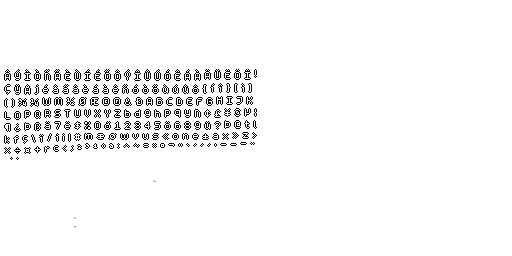
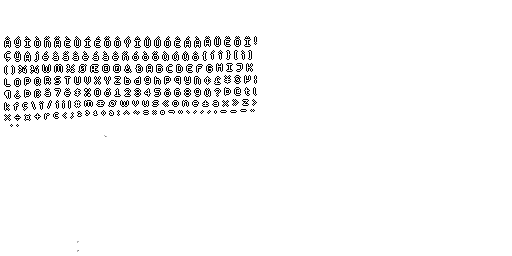
refactor game base to support low res 64x64 resolution games by default

Changed region(s): [[0.0, 0.125, 0.5, 0.625]]

diff --git a/game/src/commonMain/kotlin/com/lehaine/game/scene/GameScene.kt b/game/src/commonMain/kotlin/com/lehaine/game/scene/GameScene.kt
@@ -10,10 +10,13 @@ import com.lehaine.littlekt.graph.node.component.HAlign
 import com.lehaine.littlekt.graph.node.component.VAlign
 import com.lehaine.littlekt.graph.node.node
 import com.lehaine.littlekt.graph.node.ui.Control
+import com.lehaine.littlekt.graph.node.ui.centerContainer
 import com.lehaine.littlekt.graph.node.ui.control
 import com.lehaine.littlekt.graph.node.ui.label
+import com.lehaine.littlekt.graph.node.viewport
 import com.lehaine.littlekt.input.Key
 import com.lehaine.littlekt.util.viewport.ExtendViewport
+import com.lehaine.littlekt.util.viewport.FitViewport
 import com.lehaine.rune.engine.RuneScene
 import com.lehaine.rune.engine.node.EntityCamera2D
 import com.lehaine.rune.engine.node.entityCamera2D
@@ -43,6 +46,9 @@ class GameScene(context: Context) :
             val entityCamera: EntityCamera2D
 
             val fbo = pixelSmoothFrameBuffer {
+                maxWidth = Config.VIRTUAL_WIDTH
+                maxHeight = Config.VIRTUAL_HEIGHT
+                targetHeight = Config.VIRTUAL_HEIGHT
                 entityCamera = entityCamera2D {
                     // TODO set viewbounds
                     camera = canvasCamera
@@ -97,25 +103,31 @@ class GameScene(context: Context) :
                     scaledDistY = entityCamera.scaledDistY
                 }
             }
-
         }
 
-        ui = control {
-            name = "UI"
-            anchorRight = 1f
-            anchorBottom = 1f
-
-            label {
-                text = "TODO: Implement game logic"
-                font = Assets.pixelFont
+        viewport {
+            viewport = FitViewport(Config.VIRTUAL_WIDTH, Config.VIRTUAL_HEIGHT).apply {
+                apply(this@GameScene.context, true)
+            }
+            ui = control {
+                name = "UI"
                 anchorRight = 1f
                 anchorBottom = 1f
-                verticalAlign = VAlign.CENTER
-                horizontalAlign = HAlign.CENTER
+
+                centerContainer {
+                    anchorRight = 1f
+                    anchorBottom = 1f
+                    label {
+                        text = "TODO:\nCreate Game"
+                        font = Assets.pixelFont
+                        horizontalAlign = HAlign.CENTER
+                    }
+                }
             }
         }
         fx.createParticleBatchNodes()
     }
+
     override fun update(dt: Duration) {
         fx.update(dt)
         super.update(dt)
@@ -126,11 +138,11 @@ class GameScene(context: Context) :
             resize(graphics.width, graphics.height)
         }
 
-        if(input.isKeyJustPressed(Key.T)) {
+        if (input.isKeyJustPressed(Key.T)) {
             println(root.treeString())
         }
 
-        if(input.isKeyJustPressed(Key.P)) {
+        if (input.isKeyJustPressed(Key.P)) {
             println(stats)
         }
     }

diff --git a/game/src/commonMain/kotlin/com/lehaine/game/scene/MenuScene.kt b/game/src/commonMain/kotlin/com/lehaine/game/scene/MenuScene.kt
@@ -5,48 +5,40 @@ import com.lehaine.game.Config
 import com.lehaine.littlekt.Context
 import com.lehaine.littlekt.graph.node.Node
 import com.lehaine.littlekt.graph.node.component.HAlign
-import com.lehaine.littlekt.graph.node.ui.button
+import com.lehaine.littlekt.graph.node.component.InputEvent
 import com.lehaine.littlekt.graph.node.ui.centerContainer
 import com.lehaine.littlekt.graph.node.ui.label
-import com.lehaine.littlekt.graph.node.ui.vBoxContainer
-import com.lehaine.littlekt.util.viewport.ExtendViewport
+import com.lehaine.littlekt.graph.node.viewport
+import com.lehaine.littlekt.util.viewport.FitViewport
 import com.lehaine.rune.engine.RuneScene
 
 
 class MenuScene(
     context: Context
-) : RuneScene(context, ExtendViewport(Config.VIRTUAL_WIDTH, Config.VIRTUAL_HEIGHT)) {
+) : RuneScene(context) {
 
     override suspend fun Node.initialize() {
-        centerContainer {
-            anchorRight = 1f
-            anchorBottom = 1f
+        viewport {
+            viewport = FitViewport(Config.VIRTUAL_WIDTH, Config.VIRTUAL_HEIGHT)
+            viewport.apply(this@MenuScene.context, true)
 
-            vBoxContainer {
-                separation = 10
-
+            centerContainer {
+                anchorRight = 1f
+                anchorBottom = 1f
                 label {
-                    text = "Main Menu"
+                    text = "PRESS\nTO\nSTART"
                     font = Assets.pixelFont
                     horizontalAlign = HAlign.CENTER
-                    fontScaleX = 2f
-                    fontScaleY = 2f
-                }
 
-                button {
                     var startingGame = false
-                    text = "Start Game"
-
-                    onPressed += {
-                        if (!startingGame) {
-                            startingGame = true
-                            changeTo(GameScene(context))
+                    onInput += {
+                        if (it.type == InputEvent.Type.TOUCH_DOWN) {
+                            if (!startingGame) {
+                                startingGame = true
+                                changeTo(GameScene(context))
+                            }
                         }
                     }
-                }
-
-                button {
-                    text = "Settings"
                 }
             }
         }

diff --git a/game/src/commonMain/kotlin/com/lehaine/game/Assets.kt b/game/src/commonMain/kotlin/com/lehaine/game/Assets.kt
@@ -13,8 +13,8 @@ class Assets private constructor(context: Context) : Disposable {
     private val atlas: TextureAtlas by assets.load(context.resourcesVfs["tiles.atlas.json"])
     private val pixelFont: BitmapFont by assets.prepare {
         assets.loadSuspending<BitmapFont>(
-            context.resourcesVfs["m5x7_16_outline.fnt"],
-            BitmapFontAssetParameter(preloadedTextures = listOf(atlas["m5x7_16_outline_0"].slice))
+            context.resourcesVfs["m3x6_16_outline.fnt"],
+            BitmapFontAssetParameter(preloadedTextures = listOf(atlas["m3x6_16_outline_0"].slice))
         ).content
     }
 

diff --git a/game/src/jvmMain/kotlin/com/lehaine/game/LwjglApp.kt b/game/src/jvmMain/kotlin/com/lehaine/game/LwjglApp.kt
@@ -5,10 +5,10 @@ import com.lehaine.littlekt.graphics.Color
 
 fun main() {
     createLittleKtApp {
-        width = 960
-        height = 540
+        width = 640
+        height = 640
         backgroundColor = Color.DARK_GRAY
-        title = "LittleKt Game Template"
+        title = "LittleKt Low Res Game Template"
     }.start {
         GameCore(it)
     }

diff --git a/game/src/commonMain/kotlin/com/lehaine/game/Config.kt b/game/src/commonMain/kotlin/com/lehaine/game/Config.kt
@@ -5,7 +5,7 @@ package com.lehaine.game
  * @date 4/1/2022
  */
 object Config {
-    const val VIRTUAL_WIDTH = 480
-    const val VIRTUAL_HEIGHT = 270
-    const val GRID_CELL_SIZE = 16
+    const val VIRTUAL_WIDTH = 64
+    const val VIRTUAL_HEIGHT = 64
+    const val GRID_CELL_SIZE = 8
 }

diff --git a/README.md b/README.md
@@ -1,5 +1,6 @@
-My personal game base for the [LittleKt](https://github.com/littlektframework/littlekt) game framework that uses an
-extension called [rune-kt](https://github.com/LeHaine/rune-kt).
+My personal low res game base for the [LittleKt](https://github.com/littlektframework/littlekt) game framework that uses an
+extension called [rune-kt](https://github.com/LeHaine/rune-kt). Great for LOWREZJAM and similar jams. Set up for 64x64 
+resolution games.
 
 Normally using the latest SNAPSHOT build instead of the latest stable.
 
